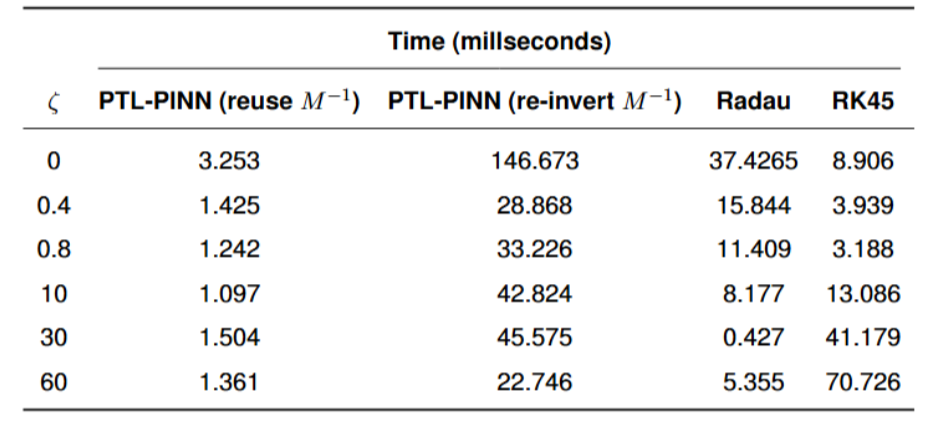
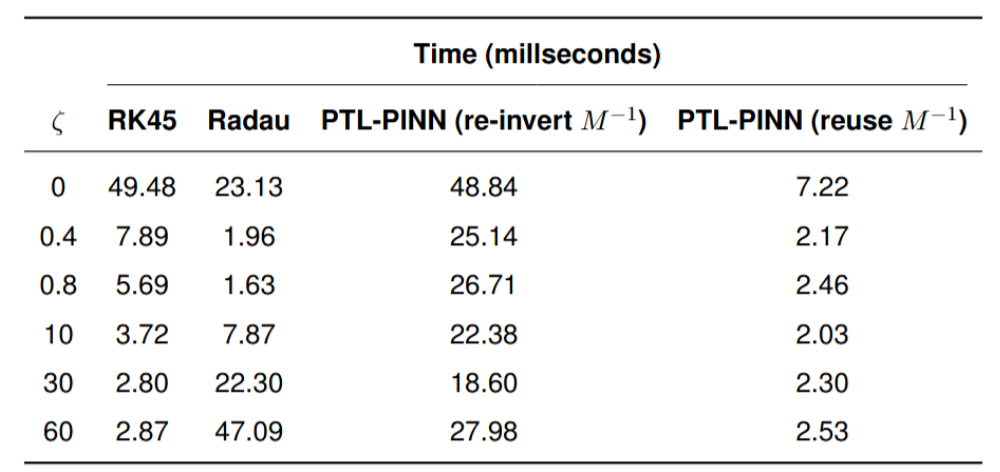
(feat): change times to have a monotonical chronometer. improved timing logic

diff --git a/ptlpinns/models/transfer.py b/ptlpinns/models/transfer.py
@@ -95,14 +95,19 @@ def compute_perturbation_solution(w_0_list, zeta_list, beta_list, p_list, ic_lis
                     perturbation_solution.append(compute_solution(H_dict_new['H'], W, H_dict_new['N']).T)
                 else:
                     if solver == "standard":
+
+                        forcing_time = time.perf_counter()
                         force_function_index = standard.force_func_perturbation(j)
                         force_perturbation = 0
                         for (a, b, c, coefficient) in force_function_index:
                             force_perturbation -= coefficient*perturbation_solution[a][:, 0]*perturbation_solution[b][:, 0]*perturbation_solution[c][:, 0]
                         force_perturbation = np.stack((np.zeros_like(force_perturbation), force_perturbation), axis=1)
+                        TL_time += time.perf_counter() - forcing_time
 
                     elif solver == "LPM":
                         if type(w_sol) == np.ndarray or type(w_sol) == list:
+
+                            forcing_time = time.perf_counter()
                             x_lin.append(perturbation_solution[-1][:, 0])
                             x_ddot.append(np.gradient(perturbation_solution[-1][:, 1], t_eval))
 
@@ -114,12 +119,15 @@ def compute_perturbation_solution(w_0_list, zeta_list, beta_list, p_list, ic_lis
 
                             x_n_forcing = LPM.calculate_forcing(w_n=w_n, w_list=w_sol[i], x=x_lin, x_ddot=x_ddot, power=power)
                             force_perturbation = np.stack((np.zeros_like(x_n_forcing), x_n_forcing), axis=1)
+                            TL_time += time.perf_counter() - forcing_time
                         else:
                             raise ValueError("w_sol should either be provided as a list or numpy array")
 
-                    W, time = compute_TL_with_F(force_perturbation, w_ode=training_log['w_ode'], H_dict=H_dict_new)
+                    compute_start = time.perf_counter()
+                    W = compute_TL_with_F(force_perturbation, w_ode=training_log['w_ode'], H_dict=H_dict_new)
                     perturbation_solution.append(compute_solution(H_dict_new['H'], W, H_dict_new['N']).T)
-                    TL_time += time
+                    compute_time = time.perf_counter() - compute_start
+                    TL_time += compute_time
 
             perturbation_solution_list.append(perturbation_solution)
             NN_TL_solution_w_0.append(sum([(beta_transfer**k)*perturbation_solution[k] for k in range(p+1)]))
@@ -143,14 +151,14 @@ def compute_TL(w_0, zeta, ic, forcing_function, w_ode, w_ic, H_dict, t=None, inv
     H_dict["H_star"] = H_star
     N = H_dict['N']
     H_ic_0 = H_dict['H_ic']
-    start_time = time.time()
+    start_time = time.perf_counter()
 
     M = w_ode * (H_star.T @ H_star) / N + w_ic * (H_ic_0.T @ H_ic_0)  # shape (W, W)
     Minv = np.linalg.pinv(M)
     H_dict["M_inv"] = Minv
 
     if not invert:
-        start_time = time.time()
+        start_time = time.perf_counter()
 
     # forcing function
     if t is not None:
@@ -167,13 +175,12 @@ def compute_TL(w_0, zeta, ic, forcing_function, w_ode, w_ic, H_dict, t=None, inv
     # compute W
     R = Rf + Ric
     W = Minv @ R  # shape (256, 1)
-    computational_time = time.time() - start_time
+    computational_time = time.perf_counter() - start_time
 
     return W, computational_time, H_dict
 
 
 def compute_TL_with_F(forcing_function, w_ode, H_dict, t=None):
-    start_time = time.time()
     # forcing function
     if t is not None:
         forcing_value = forcing_function(t).reshape(-1, 1)
@@ -184,9 +191,8 @@ def compute_TL_with_F(forcing_function, w_ode, H_dict, t=None):
     # compute W
     R = Rf + H_dict['R_ic']
     W = H_dict['M_inv'] @ R  # shape (256, 1)
-    computational_time = time.time() - start_time
 
-    return W, computational_time
+    return W
 
 def get_A(w_0, zeta=0):
     return np.array([[0, -1], [w_0 ** 2, 2 * zeta * w_0]])
